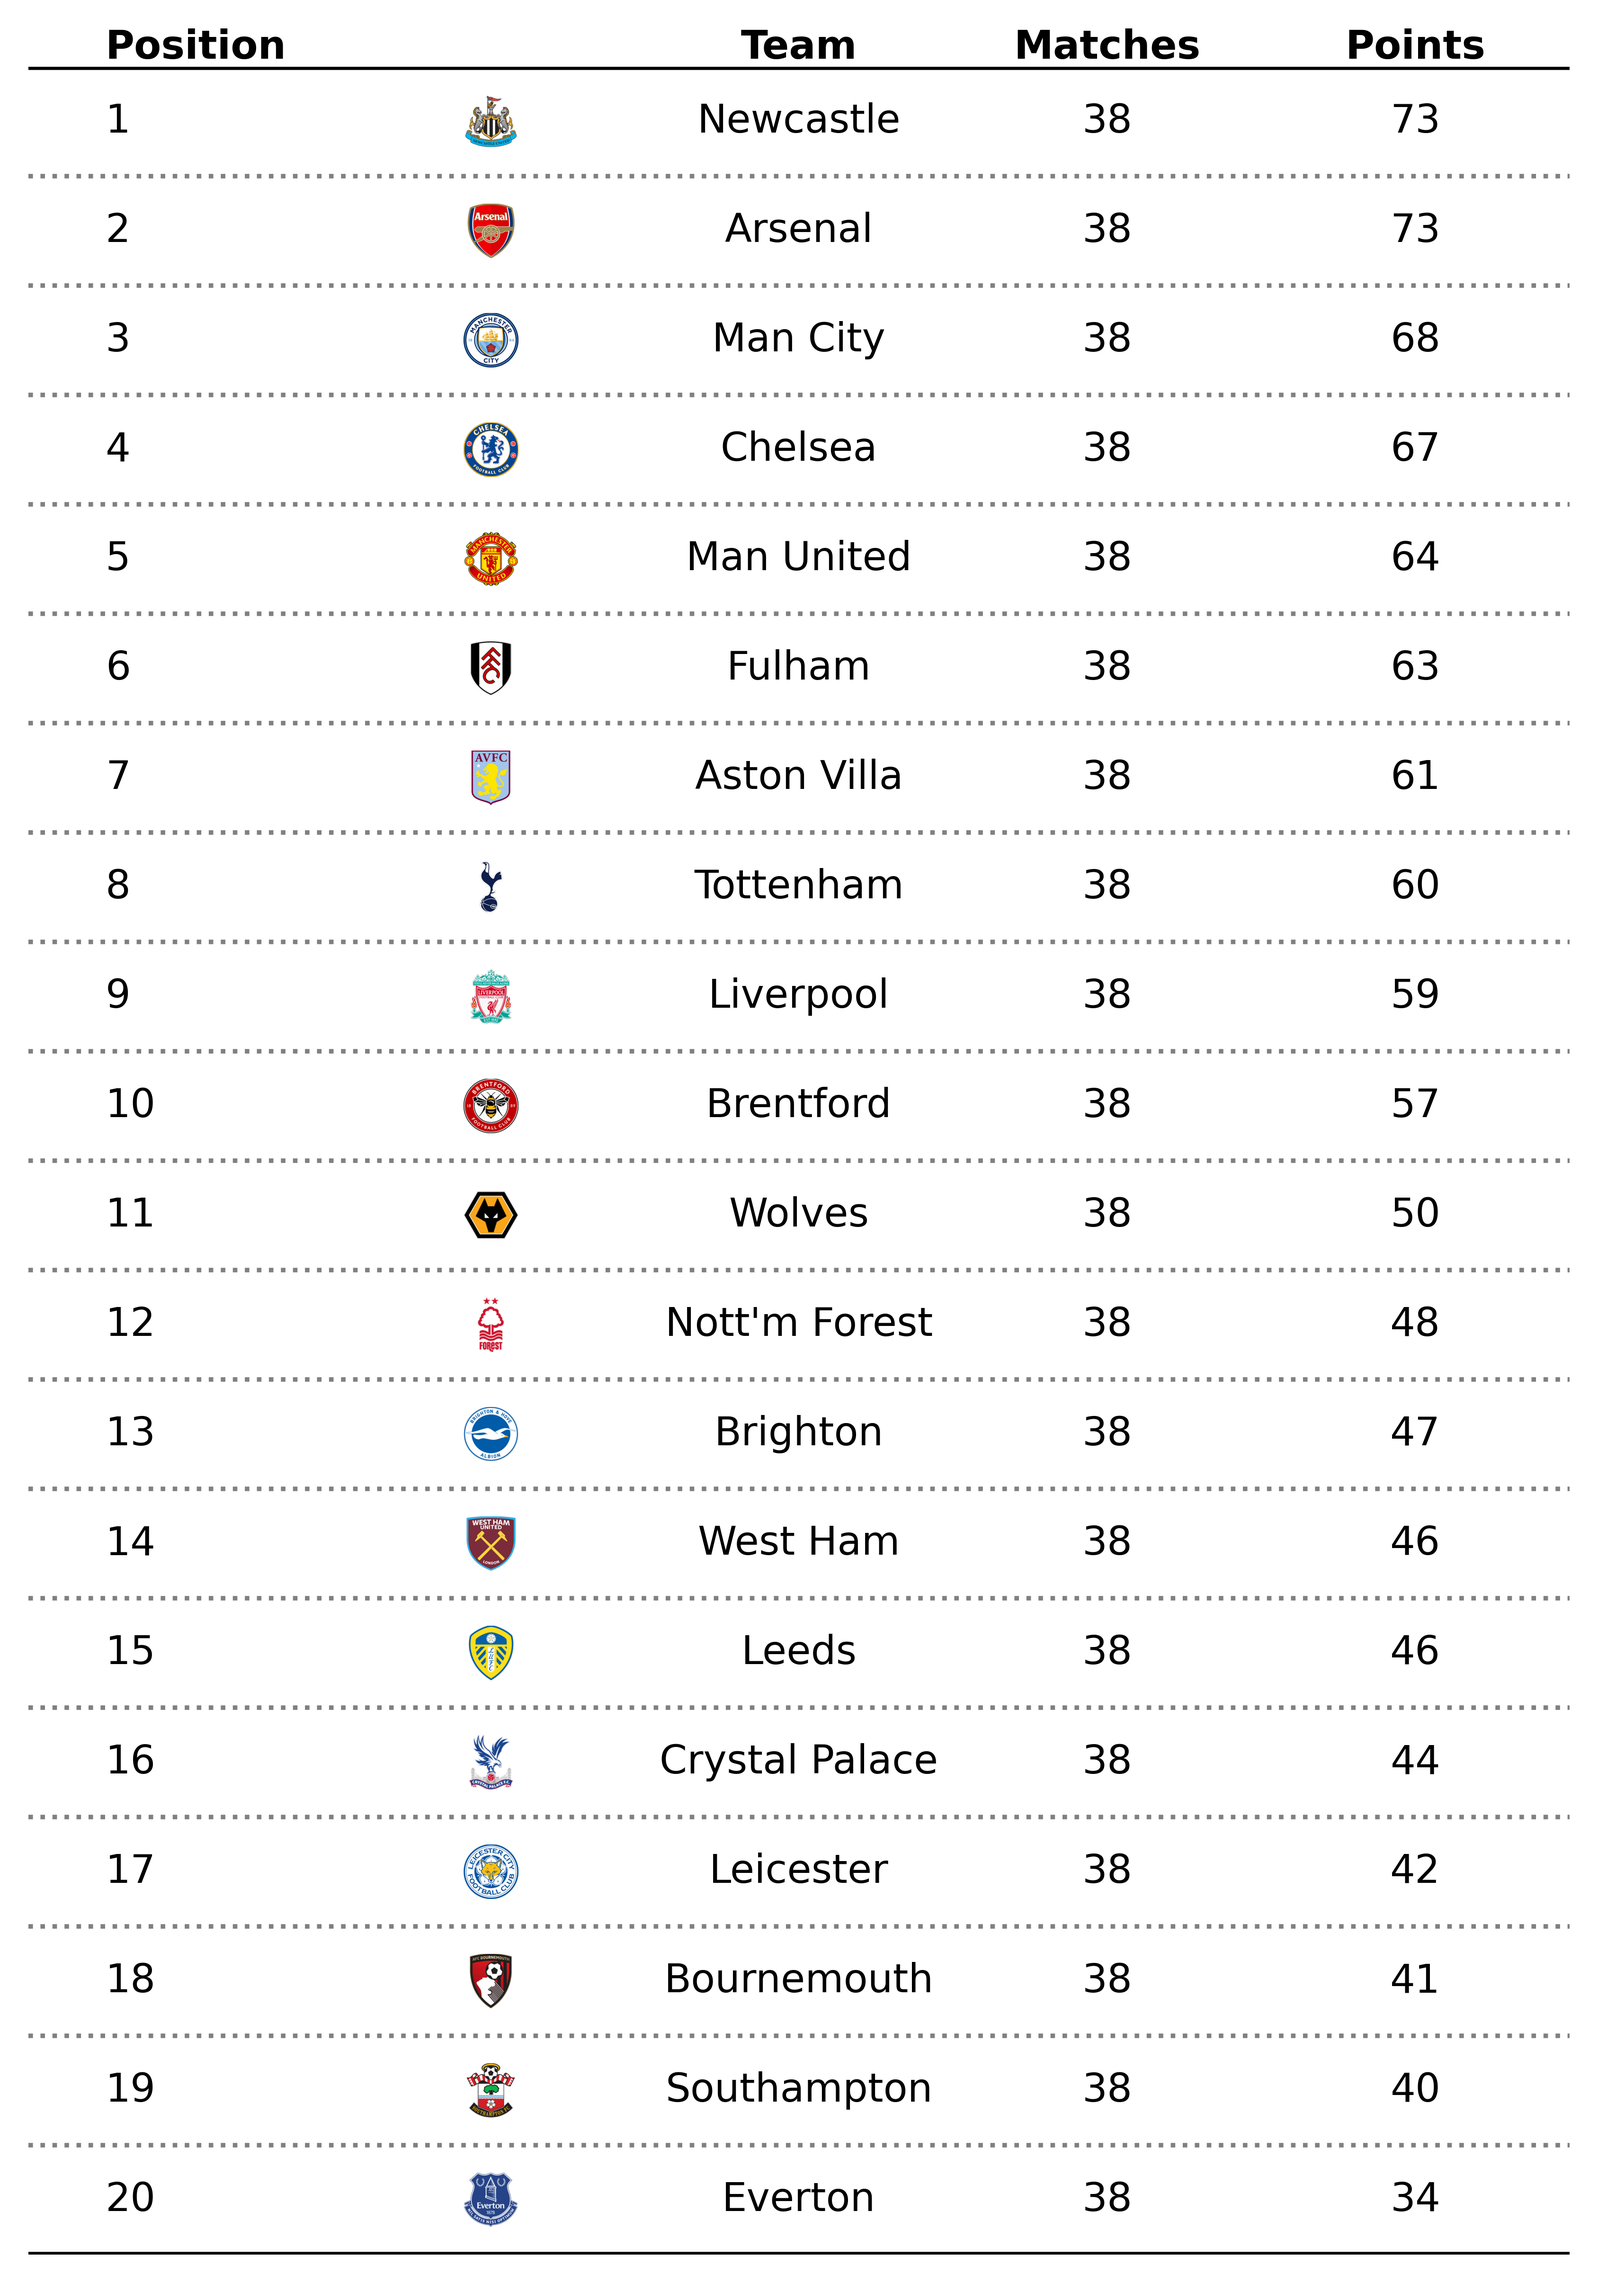
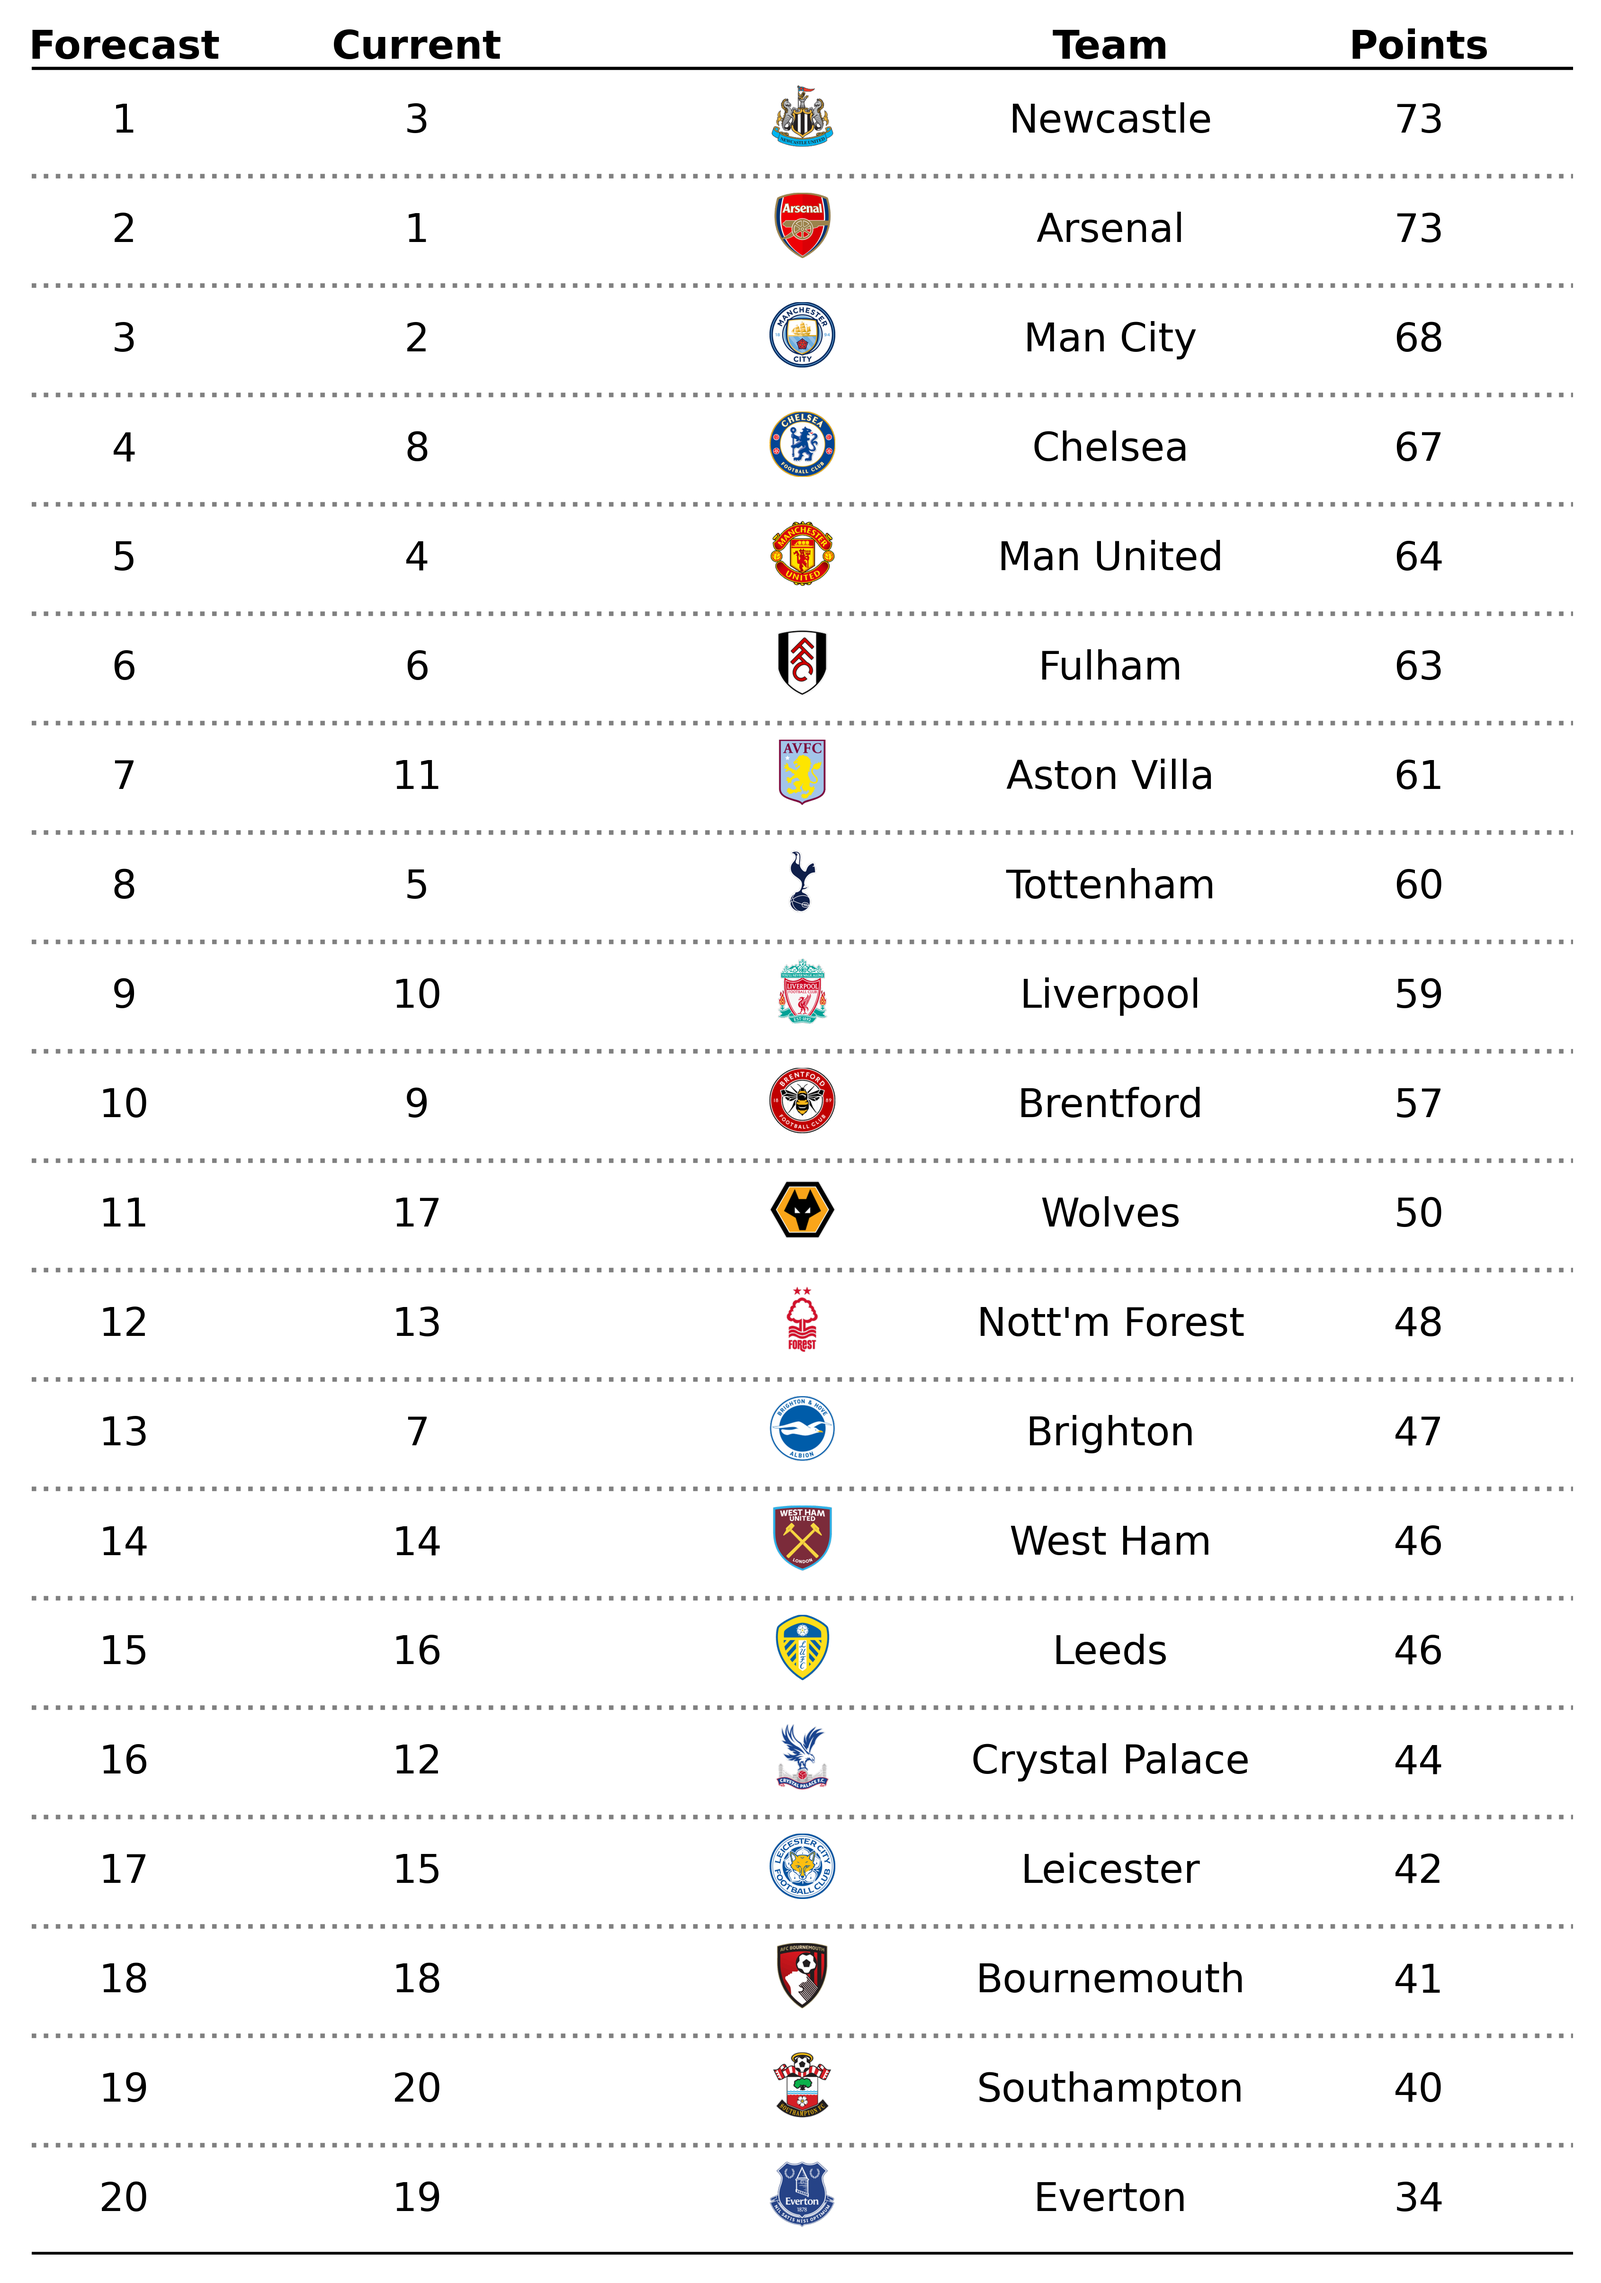
update: add current pos to table (#5)

diff --git a/src/content_generator/table_creator.py b/src/content_generator/table_creator.py
@@ -1,25 +1,55 @@
 import matplotlib.pyplot as plt
 import pandas as pd
 from PIL import Image
+import duckdb
 
 
 class TableCreator:
     def __init__(self):
+        self.con = duckdb.connect()
+        self.current_standings_path = "./data/forecast/current_standings.csv"
         self.standings_path = "./data/forecast/standings.csv"
         self.table_image_path = "./img/out/standings_forecast.png"
-        self.positions = [0.25, 2.5, 3.5, 4.5, 5.5]
+        self.positions = [0.3, 1.25, 3.5, 4.5, 5.5]
+        self.current_standings = None
         self.df = None
         self.fig = None
         self.ax = None
-
+    
+    def execute(self):
+        self.set_df()
+        self.set_figure()
+        self.add_main_text()
+        self.add_team_logos()
+        self.add_columns_names()
+        self.add_lines()
+        self.save_img()
+    
     def set_df(self):
-        df = pd.read_csv(self.standings_path)
+        prediction = self.get_df(self.standings_path)
+        current = self.get_df(self.current_standings_path)
+
+        query = """
+        SELECT
+            p.pos,
+            c.pos AS current_pos,
+            p.team,
+            p.points 
+        FROM
+            prediction p 
+        LEFT JOIN
+            current c USING(team)
+        """
+        self.df = self.con.execute(query).df()
+
+    def get_df(self, standings_path):
+        df = pd.read_csv(standings_path)
         df["pos"] = df.reset_index().index + 1
         df.drop(columns=df.columns[0], axis=1, inplace=True)
         df = df[["pos", "team", "matches", "points"]].sort_values(
             by="points", ascending=True
         )
-        self.df = df
+        return df
 
     def set_figure(self):
         self.fig = plt.figure(figsize=(7, 10), dpi=300)
@@ -32,22 +62,11 @@ class TableCreator:
         self.ax.set_xlim(0, self.ncols + 1)
         self.ax.set_ylim(0, self.nrows)
 
-    def execute(self):
-        self.set_df()
-        self.set_figure()
-        self.add_main_text()
-        self.add_team_logos()
-        self.add_columns_names()
-        self.add_lines()
-        self.save_img()
 
     def add_main_text(self):
         for i in range(self.nrows):
             for j, column in enumerate(self.columns):
-                if j == 0:
-                    ha = "left"
-                else:
-                    ha = "center"
+                ha = "center"
                 self.ax.annotate(
                     text=self.df[column].iloc[i],
                     xy=(self.positions[j], i + 0.5),
@@ -59,13 +78,13 @@ class TableCreator:
         DC_to_FC = self.ax.transData.transform
         FC_to_NFC = self.fig.transFigure.inverted().transform
         DC_to_NFC = lambda x: FC_to_NFC(DC_to_FC(x))
-        ax_point_1 = DC_to_NFC([2.25, 0.25])
-        ax_point_2 = DC_to_NFC([2.75, 0.75])
+        ax_point_1 = DC_to_NFC([2.2, 0.2])
+        ax_point_2 = DC_to_NFC([2.9, 0.8])
         ax_width = abs(ax_point_1[0] - ax_point_2[0])
         ax_height = abs(ax_point_1[1] - ax_point_2[1])
         for x in range(0, self.nrows):
             team_name = self.df["team"].iloc[x]
-            ax_coords = DC_to_NFC([1.25, x + 0.25])
+            ax_coords = DC_to_NFC([2.15, x + 0.25])
             flag_ax = self.fig.add_axes(
                 [ax_coords[0], ax_coords[1], ax_width, ax_height]
             )
@@ -78,14 +97,11 @@ class TableCreator:
         return flag_ax
 
     def add_columns_names(self):
-        column_names = ["Position", "Team", "Matches", "Points"]
-        for index, c in enumerate(column_names):
-            if index == 0:
-                ha = "left"
-            else:
-                ha = "center"
+        column_names = ["Forecast", "Current", "Team", "Points"]
+        for index, col in enumerate(column_names):
+            ha = "center"
             self.ax.annotate(
-                text=column_names[index],
+                text=col,
                 xy=(self.positions[index], self.nrows),
                 ha=ha,
                 va="bottom",

diff --git a/src/feature_engineering/standings.py b/src/feature_engineering/standings.py
@@ -80,8 +80,8 @@ class Standings:
             by="points", ascending=False
         )
 
-    def export_table(self):
-        path = "data/forecast/standings.csv"
+    def export_table(self, filename = 'standings'):
+        path = f"data/forecast/{filename}.csv"
         self.set_table_of_positions()
         self.table_positions.to_csv(path)
 

diff --git a/src/ml_model/predictor.py b/src/ml_model/predictor.py
@@ -36,6 +36,7 @@ class Predictor:
     def set_standing(self):
         self.standings = Standings()
         self.standings.execute()
+        self.standings.export_table(filename="current_standings")
 
     def set_future_matches(self):
         self.future_matches = self.standings.database.query("played == False")
